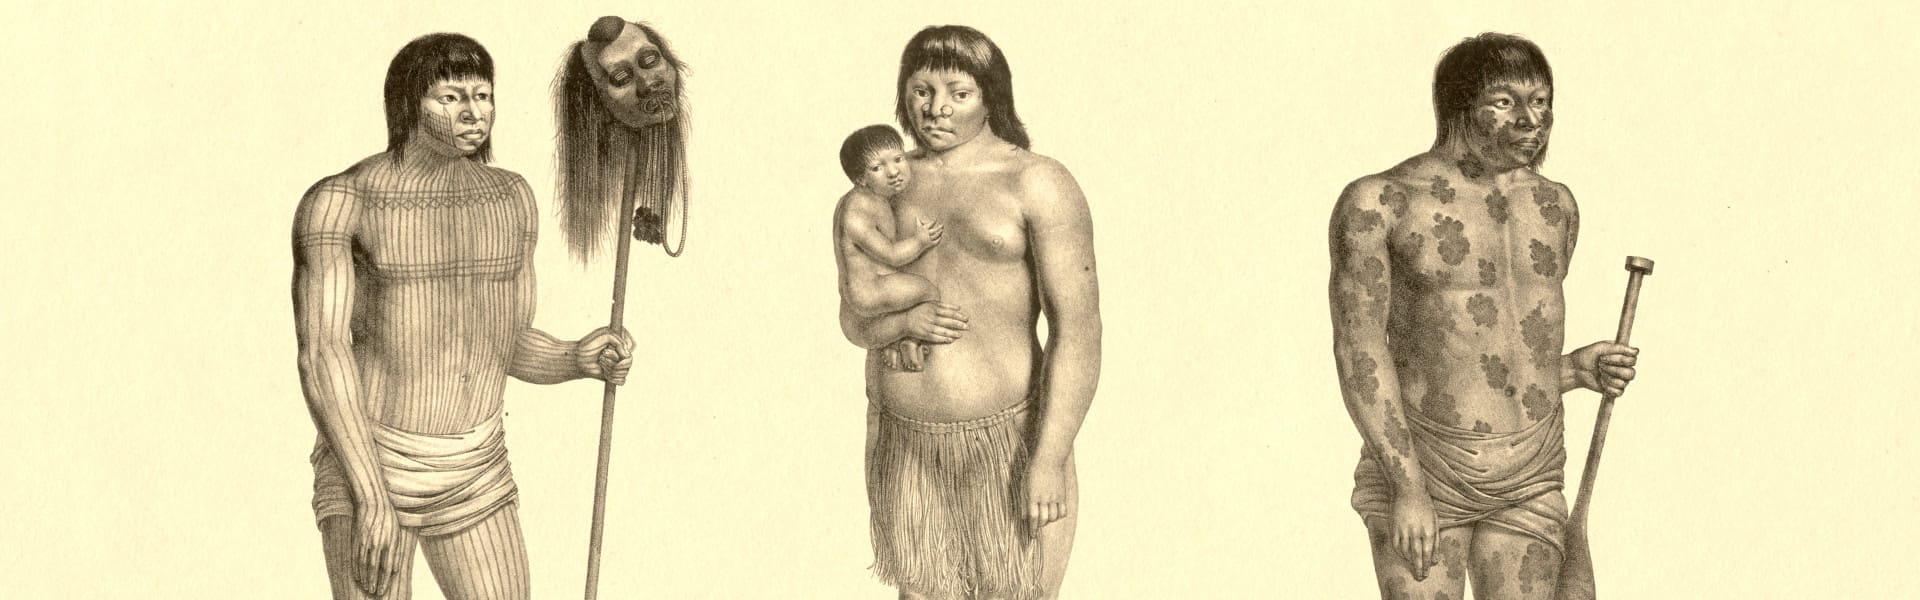
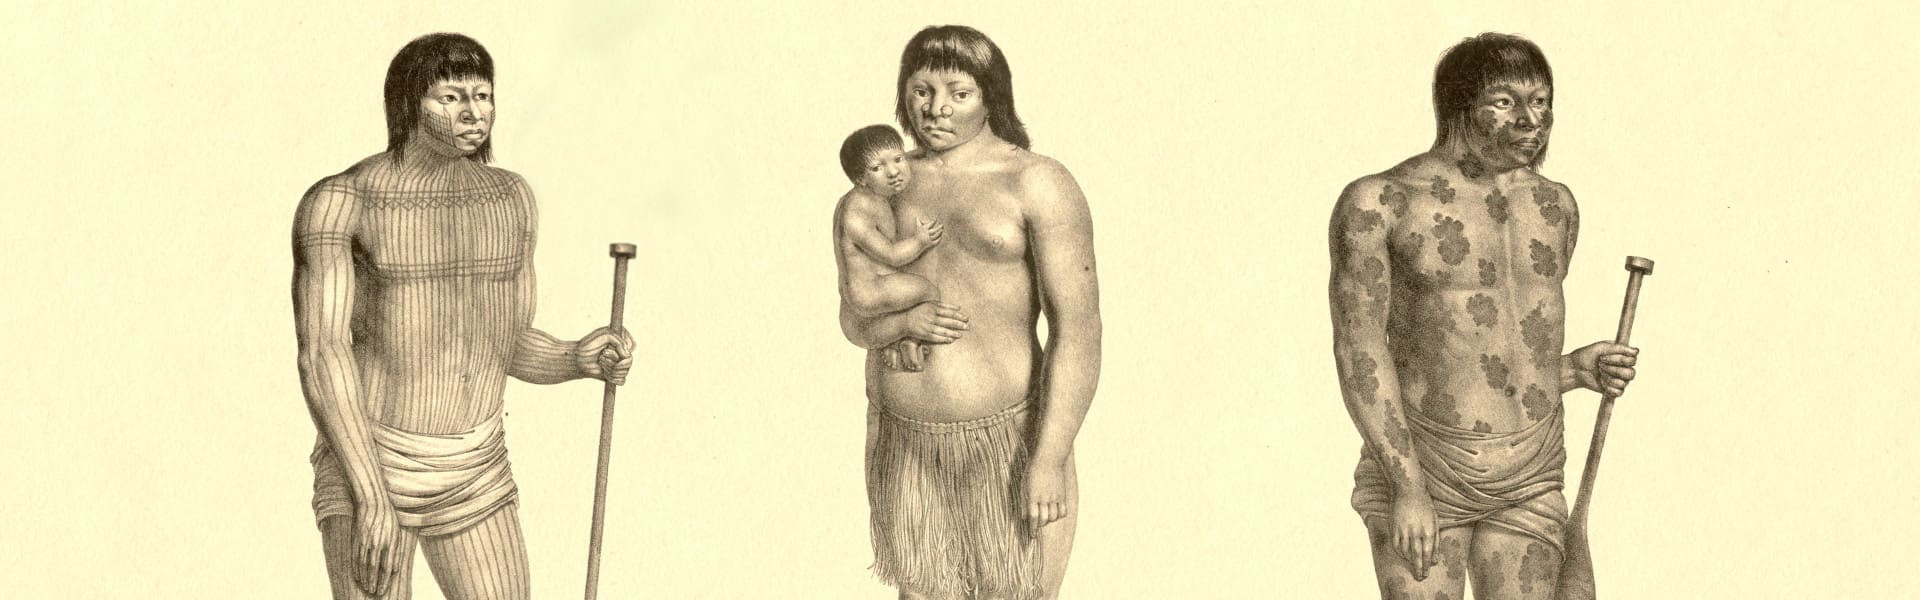
Version 0.1.9 - Edits sensitive image from assets and screenshot.

Changed region(s): [[0.2812, 0.03, 0.375, 0.45]]

diff --git a/taina/assets/scss/style.scss b/taina/assets/scss/style.scss
@@ -7,7 +7,7 @@ Description: A full-site-editing block theme for WordPress. Tainá has emerged a
 Requires at least: 6.0
 Tested up to: 6.0
 Requires PHP: 7.3
-Version: 0.1.8
+Version: 0.1.9
 License: GNU General Public License v2 or later
 License URI: http://www.gnu.org/licenses/gpl-2.0.html
 Text Domain: taina

diff --git a/taina/style.css b/taina/style.css
@@ -8,7 +8,7 @@ Description: A full-site-editing block theme for WordPress. Tainá has emerged a
 Requires at least: 6.0
 Tested up to: 6.0
 Requires PHP: 7.3
-Version: 0.1.8
+Version: 0.1.9
 License: GNU General Public License v2 or later
 License URI: http://www.gnu.org/licenses/gpl-2.0.html
 Text Domain: taina
